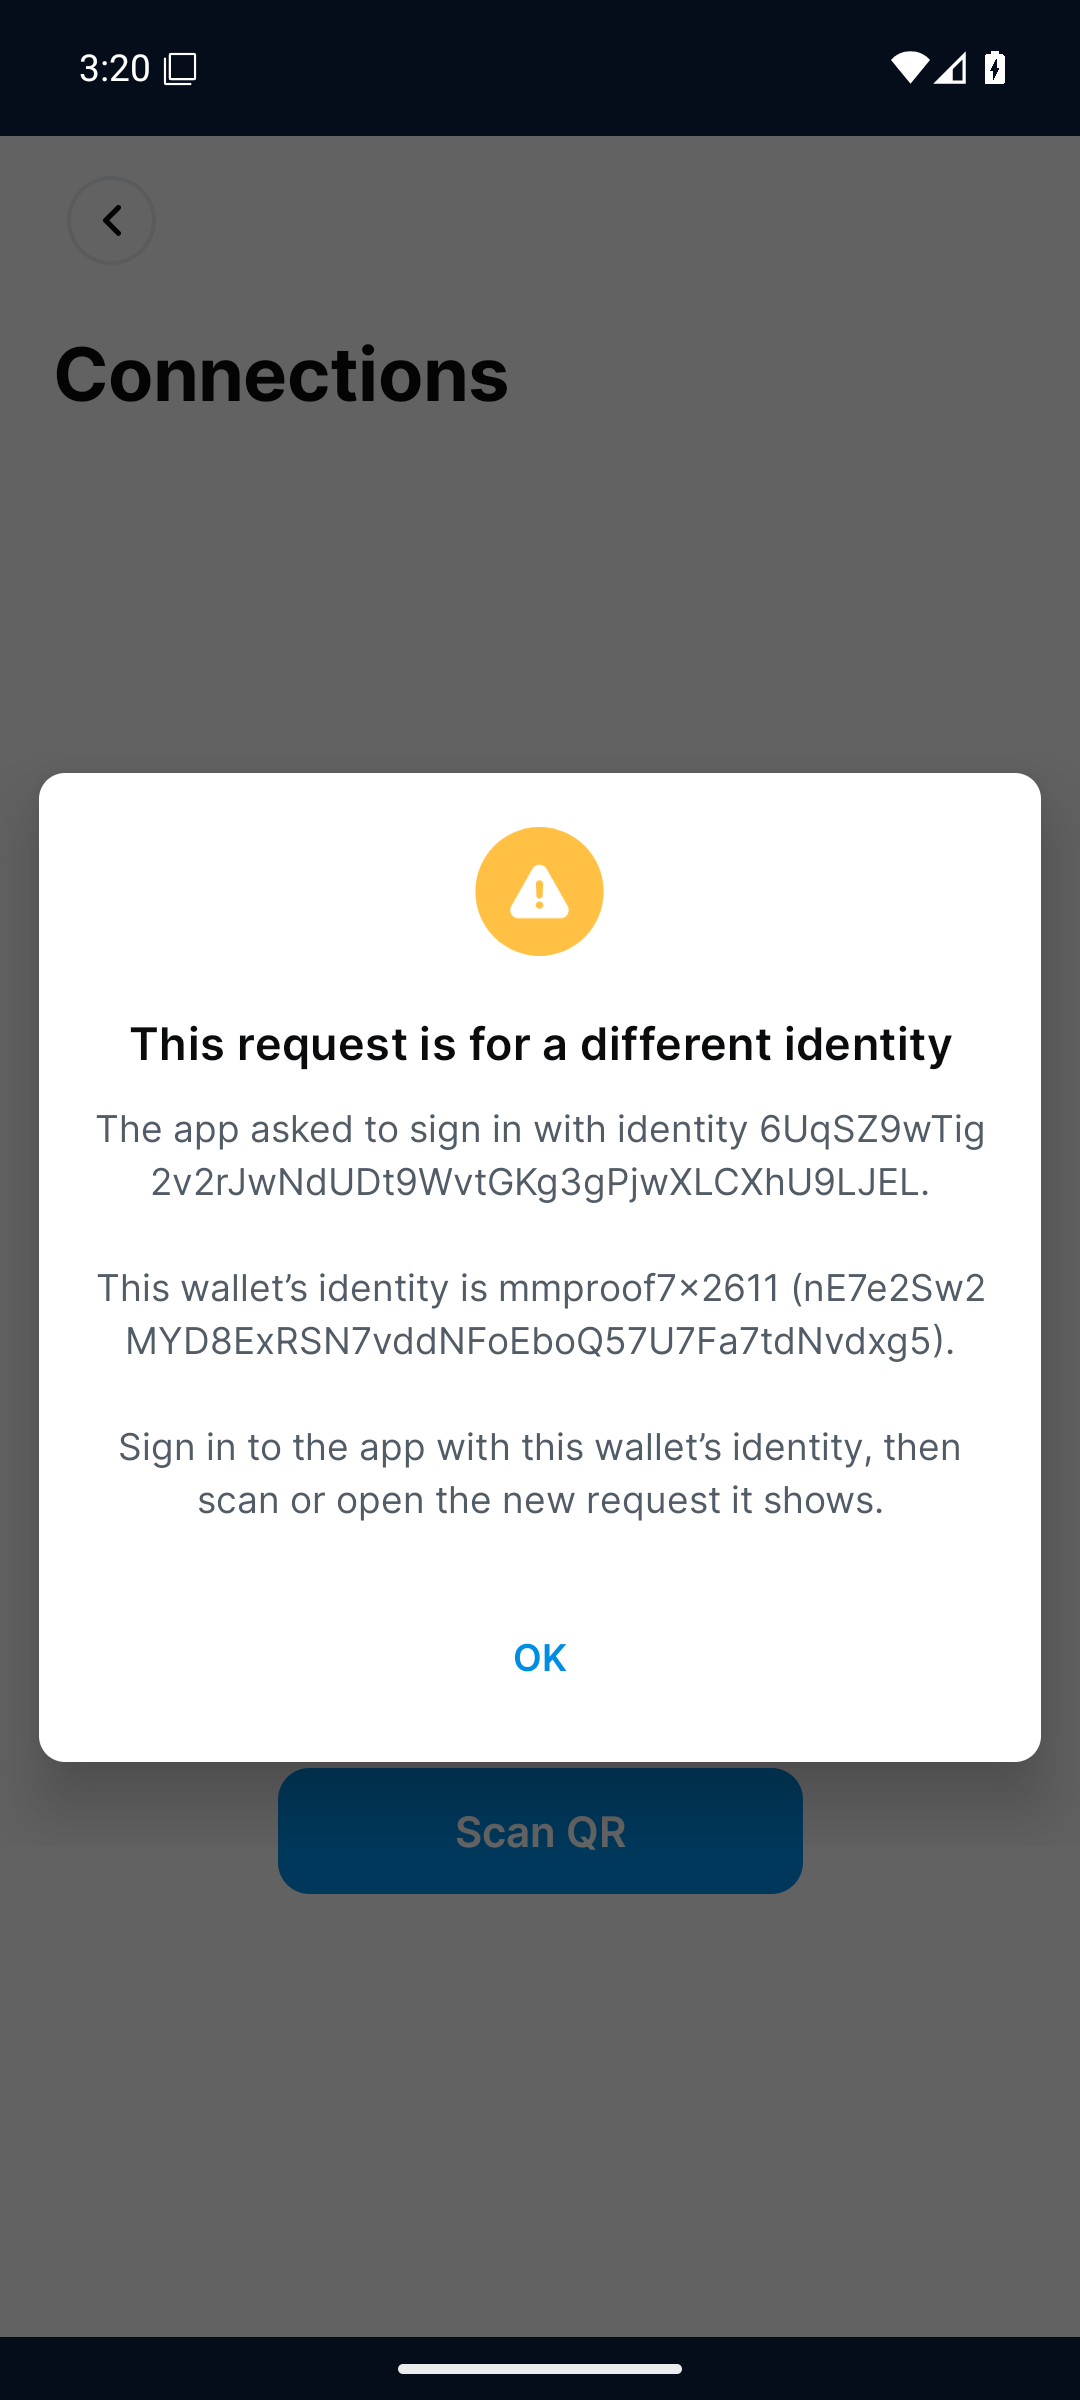
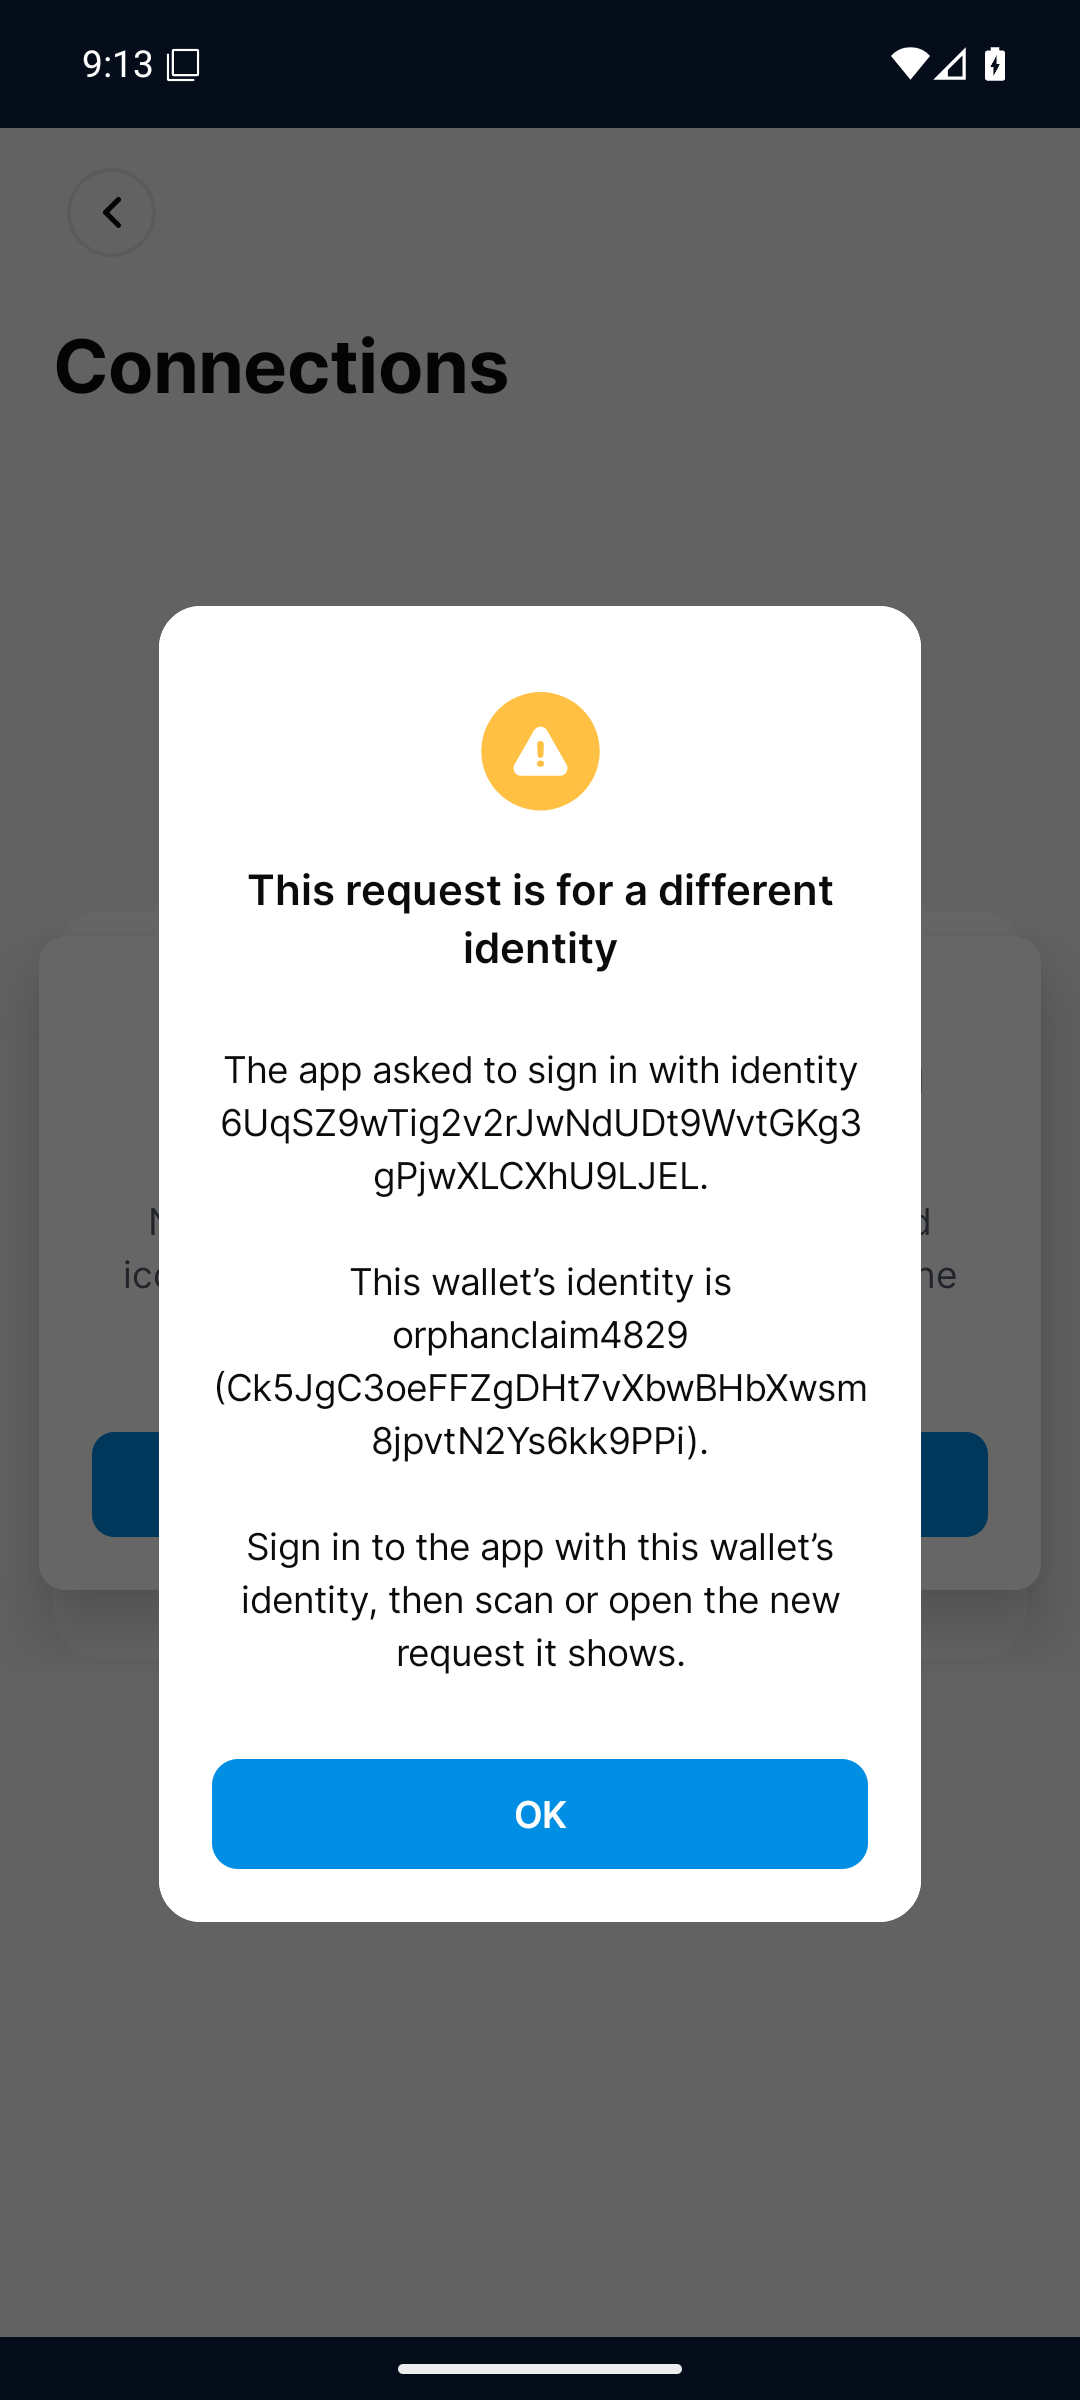
dash-wallet: retake App Connect identity-mismatch dialog at e2bdbfdd2

Changed region(s): [[0.0306, 0.25, 0.9778, 0.8125], [0.0, 0.0, 1.0, 0.0938], [0.0611, 0.125, 0.4583, 0.1875]]

diff --git a/dash-wallet/app-connect-identity-mismatch-dialog/README.md b/dash-wallet/app-connect-identity-mismatch-dialog/README.md
@@ -5,16 +5,16 @@ Branch `feat/app-connect-identity-mismatch-dialog`.
 | | |
 |---|---|
 | Before (exact PR base) | `feat/kotlin-sdk-phase-1` @ `1a309058f2` |
-| After (full PR head) | `feat/app-connect-identity-mismatch-dialog` @ `46c59ff056` |
-| Build | `assemble_testNet3Debug` from each revision; both installed over each other on the same emulator, so both use the same wallet data |
+| After (full PR head) | `feat/app-connect-identity-mismatch-dialog` @ `e2bdbfdd23` |
+| Build | `assemble_testNet3Debug` from each revision |
 | Device | Android emulator, API 36 (google_apis x86_64), Pixel 7 profile |
 | Network | Dash testnet, live Platform |
-| Fixture | A wallet created in-app on that emulator, funded from the testnet faucet, with username `mmproof7x2611` (identity `nE7e2Sw2MYD8ExRSN7vddNFoEboQ57U7Fa7tdNvdxg5`) registered in-app |
+| Fixture | Before: a wallet created in-app, funded from the testnet faucet, with username `mmproof7x2611` (identity `nE7e2Sw2MYD8ExRSN7vddNFoEboQ57U7Fa7tdNvdxg5`) registered in-app. After: a second testnet wallet created and funded the same way, with username `orphanclaim4829` (identity `Ck5JgC3oeFFZgDHt7vXbwBHbXwsm8jpvtN2Ys6kk9PPi`). The after capture was retaken on that wallet when the dialog moved to Compose; the before build has no dialog, so only the toast is compared. |
 | Request | The testnet `dash-key:` vector from `wallet/test/app-connect-vectors.json`, re-dated to the capture time, with an identity hint (TLV 1) of `6UqSZ9wTig2v2rJwNdUDt9WvtGKg3gPjwXLCXhU9LJEL`, an identity this wallet does not have. Opened as a link (`am start -d`). |
 
 - `before/identity-mismatch-toast.png`: the base build shows a toast, "Could not complete the DashConnect request: QR requests a different identity", for about 3.5 s.
-- `after/identity-mismatch-dialog.png`: the PR build shows a dialog naming the requested identity and the wallet's username and identity. It stays until dismissed.
+- `after/identity-mismatch-dialog.png`: the PR build shows a Compose dialog naming the requested identity and the wallet's username (display form) and identity, with selectable text. It stays until dismissed.
 
 SHA-256:
 99502b2be7ed610ad912d79f4b78f6ca280b20402877148b0efbe3b31f52f160  before/identity-mismatch-toast.png
-abed36fe576648907cbd65e15b9136a220c5b9a1266b502847dbddf35ee0c977  after/identity-mismatch-dialog.png
+a36b03736c49814ea72dc8c584863c291ca1c03173df55e1d0f46d2df6c17465  after/identity-mismatch-dialog.png
